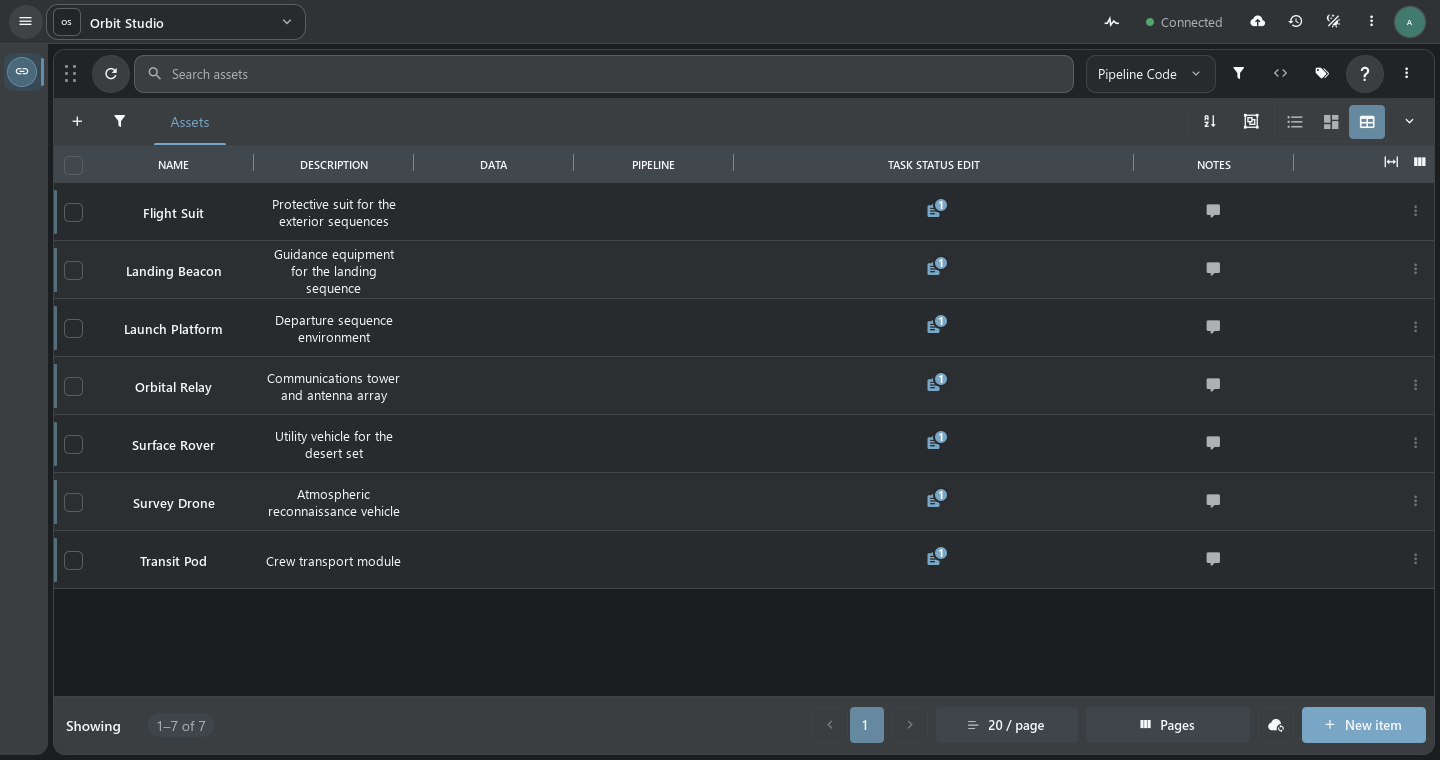
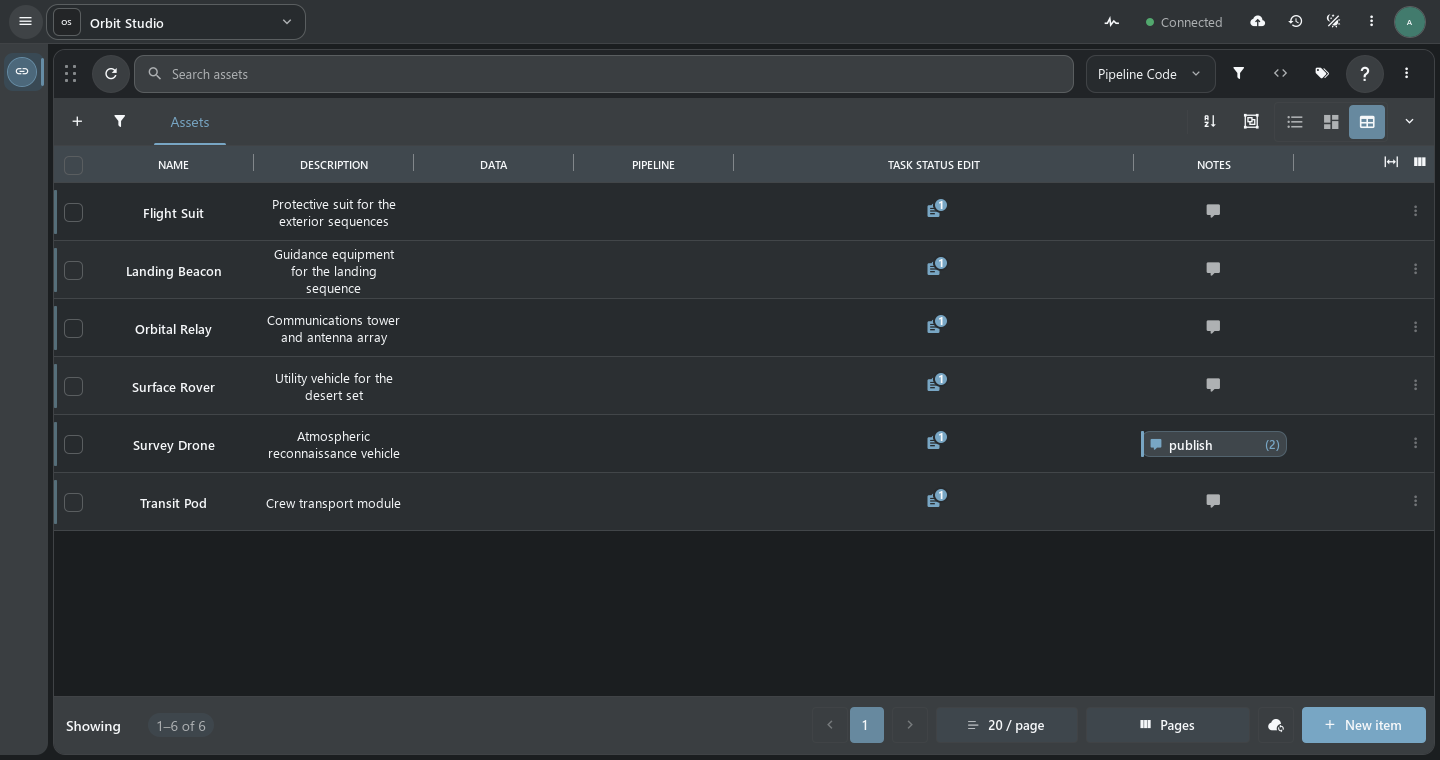
Document the Handler asset and publishing workflow

diff --git a/README.ru.md b/README.ru.md
@@ -1,44 +1,77 @@
 # TACTIC-Handler
 
-[English](README.md) · **Русский** · [Руководство](docs/handbook.ru.md) · [История изменений](CHANGELOG.md)
+**Настольное рабочее пространство TACTIC для производства ассетов.** Найдите ассет или шот, проверьте задачи и версии, подготовьте локальные файлы и опубликуйте снапшот. Handler работает как самостоятельное приложение на Python и Qt Quick и подключает сессии Maya через локальный мост.
 
-**Настольный клиент TACTIC для работы с ассетами, задачами и публикациями.**
-Открывайте ассеты и шоты в Item View, смотрите их задачи и снапшоты
-и готовьте публикации файлов из рабочего пространства на Python и Qt Quick.
+[English](README.md) · [Запуск на Windows](#запуск-на-windows) · [Интеграция с Maya](#интеграция-с-maya) · [Python API](#python-api) · [Руководство](docs/handbook.ru.md)
 
-Handler подключается к настроенному серверу [Southpaw TACTIC](https://github.com/Southpaw-TACTIC/TACTIC)
-или TACTIC Stream.
-Сервер хранит проектные данные, права и правила публикации. Handler отвечает
-за настольный интерфейс, локальные файлы и интеграцию с Maya.
+![Item View в нативном TACTIC-Handler с карточками ассетов проекта Orbit Studio](docs/assets/github-item-view.png)
 
-> **Прототип в разработке.** Perforce-like workspace — отдельный незавершённый
-> прототип внутри Handler.
+*Orbit Studio — демонстрационный проект. На снимке самостоятельное Qt-приложение, подключённое к локальному TACTIC Stream.*
 
-![Карточки ассетов проекта Orbit Studio в Item View настольного клиента TACTIC-Handler](docs/assets/github-item-view.png)
+> **Прототип в разработке.** Для знакомства используйте тестовый проект и репозиторий. Perforce-like workspace — отдельный прототип.
 
-## Item View
+## Работа с ассетом
 
-Просматривайте отдельные объекты в карточках, компактных строках или раскрываемом
-дереве. Открывайте связи, задачи, заметки и снапшоты из результатов поиска.
-При подключении к Stream с API редактирования раскладок нативный редактор
-позволяет собрать карточку или строку из полей и действий.
-[Руководство по раскладкам объектов](thlib/ui/help_articles/item_layouts.ru.md) · [Скриншот таблицы](docs/assets/github-workspace.png)
+Откройте проект и выберите Search Type в сайдбаре. Каждая вкладка поиска сохраняет свой вид, фильтры и выделение. **Item View** показывает ассеты и связанное с ними производство. В дереве удобно идти от объекта к процессу и версиям. Таблица подходит для работы с полями.
 
-## Возможности
+### Поиск, задачи и заметки в одном пространстве
 
-- **Работа с проектом.** Сохраняйте раскладки, открывайте несколько вкладок
-  поиска, ведите задачи, заметки и связи между объектами.
-- **Просмотр и публикация.** Открывайте снапшоты, сравнивайте версии изображений
-  и готовьте check-in через Drop Plate и Commit Queue.
-- **Локальные файлы.** Настраивайте пути и синхронизацию репозиториев.
-  Списки изменений и полки входят в Perforce-like прототип.
-- **Интеграция с Maya.** Выполняйте поддерживаемые операции со сценой в выбранной
-  сессии Maya через локальный Handler Server.
+Из карточки или строки можно открыть задачи, заметки, связи и снапшоты. Док-панели работают рядом с поиском и следуют за выбранным объектом. Когда команде нужно одинаковое расположение панелей, его можно сохранить как раскладку.
+
+![Карточки Orbit Studio и панель заметок выбранного ассета Survey Drone](docs/assets/github-notes.png)
+
+*Панель заметок следует за выделением. [Табличный вид](docs/assets/github-workspace.png)*
+
+### Настройка Item View
+
+При подключении к Stream с API редактирования раскладок откройте нативный редактор **Item Layouts**. Соберите карточку или строку из полей, превью и действий, например «Заметки» или «Детали объекта». Проверьте черновик на данных проекта и сохраните именованное представление. Настройки сайдбара определяют, с каким видом открывается поиск. [Раскладки объектов](thlib/ui/help_articles/item_layouts.ru.md) · [Редактор сайдбара](thlib/ui/help_articles/sidebar_editor.ru.md)
+
+## Публикация и проверка версий
+
+1. Выберите объект и процесс или контекст публикации.
+2. Добавьте файлы или папки в **Drop Plate**. Проверьте группы и параметры check-in в **Commit Queue**.
+3. Отправьте публикацию. Сервер применит права, правила именования и настройки репозитория и запишет снапшот.
+4. Откройте **Snapshot Browser**, чтобы проверить файлы и превью. Две версии изображений можно сравнить рядом или с разделителем.
+
+![Snapshot Browser в TACTIC-Handler для ассета Survey Drone](docs/assets/github-snapshot.png)
+
+*Публикация хранится на сервере как снапшот. Handler управляет локальными путями репозитория и синхронизацией.*
+
+[Check-in](thlib/ui/help_articles/checkin.ru.md) · [Commit Queue](thlib/ui/help_articles/commit_queue.ru.md) · [Snapshot Browser](thlib/ui/help_articles/dock.snapshot.ru.md) · [Репозитории](thlib/ui/help_articles/repositories.ru.md)
+
+## Интеграция с Maya
+
+Коннектор Maya регистрирует сессию в **Handler Server**. В Handler выбирается сессия, которой адресовано действие. Открытие, импорт и добавление референса выполняются внутри Maya. Авторизация TACTIC и передача файлов остаются в настольном Handler.
+
+```mermaid
+flowchart LR
+    Maya["Сессия Maya"] <-->|Локальный мост| Handler["TACTIC-Handler"]
+    Handler <-->|TACTIC API| Server["TACTIC или TACTIC Stream"]
+    Handler <-->|Локальные пути| Storage["Хранилище файлов"]
+    Server <-->|Снапшоты и файлы| Storage
+```
+
+Maya — интеграция, поставляемая в этой версии исходного кода. Протокол тонкого клиента позволяет зарегистрировать нативные действия отдельного коннектора. [Установка Maya-коннектора](installer/README.md) · [DCC API](docs/dcc_api.md) · [Протокол](docs/thin_client_protocol.md)
+
+## Python API
+
+Самостоятельный скрипт может использовать настроенное подключение Handler. В примере ниже читаются записи демопроекта. Подставьте код своего проекта и Search Type.
+
+```python
+from tactic_handler_api import local
+
+with local() as handler:
+    assets = handler.project("orbit").stype("orbit/asset")
+    result = assets.query(limit=12, order_by=["name asc"])
+    for asset in result.items:
+        print(asset.get_code(), asset.get_value("name"))
+```
+
+Точки входа этого API есть также в редакторе скриптов и подключённых DCC. Через API можно запрашивать и редактировать объекты, работать с файлами и вызывать поддерживаемые действия интерфейса. [Примеры и контексты выполнения](docs/handler_api.md) · [Редактор скриптов](thlib/ui/help_articles/script_editor.ru.md) · [Script Shelf](thlib/ui/help_articles/script_shelf.ru.md)
 
 ## Запуск на Windows
 
-Понадобятся Python 3.14, учётная запись TACTIC и доступ к серверу. Выполните
-команды из корня актуальной рабочей копии с файлом `launch.py`.
+Понадобятся Python 3.14, учётная запись TACTIC и актуальная рабочая копия с файлом `launch.py`.
 
 ```powershell
 py -3.14 -m venv .venv
@@ -46,21 +79,13 @@ py -3.14 -m venv .venv
 .\.venv\Scripts\python.exe launch.py
 ```
 
-Откройте **Конфигурация → Сервер**, добавьте подключение, проверьте адрес и
-получите тикет. Выберите проект и настройте локальный путь репозитория перед
-работой с файлами. [Первое подключение](docs/handbook.ru.md#первое-подключение)
+Сначала запустите сервер TACTIC. В Handler откройте **Конфигурация → Сервер**, проверьте подключение и получите тикет. Выберите проект и настройте локальный путь репозитория перед check-in и синхронизацией. [Первое подключение](docs/handbook.ru.md#первое-подключение) · [Начало работы](thlib/ui/help_articles/getting_started.ru.md)
 
-## Документация
-
-| Задача | Где начать |
+| Что дальше | Документация |
 | --- | --- |
-| Освоить настольный клиент | [Начало работы](thlib/ui/help_articles/getting_started.ru.md) · [Руководство](docs/handbook.ru.md) |
-| Подключить Maya или разработать коннектор | [Установщик Maya](installer/README.md) · [DCC API](docs/dcc_api.md) |
-| Писать клиентские скрипты | [Handler API](docs/handler_api.md) |
-| Разрабатывать и проверять релизы | [Индекс документации](docs/index.md) · [Готовность релиза](docs/release_readiness.md) |
+| Настольные сценарии, задачи и администрирование | [Руководство](docs/handbook.ru.md) · [Справка](thlib/ui/help_articles/README.md) |
+| Устройство клиента и общий Frame | [Архитектура](docs/application_architecture.md) · [Контракты Frame](docs/frame/index.md) |
+| Совместимость с существующим TACTIC | [Карта совместимости](docs/tactic_compatibility/README.md) |
+| Проверка релиза | [Готовность и ручная приёмка](docs/release_readiness.md) |
 
-Для рабочего развёртывания требуется приёмка на
-целевом сервере, с реальными репозиториями, в нужной конфигурации Windows и DCC.
-Сценарии перечислены в [чек-листе приёмки](docs/release_acceptance_checklist.md).
-
-[Eclipse Public License 1.0](LICENSE). У встроенных компонентов свои уведомления о лицензиях.
+Handler подключается к [Southpaw TACTIC](https://github.com/Southpaw-TACTIC/TACTIC) или TACTIC Stream. [Eclipse Public License 1.0](LICENSE)

diff --git a/README.md b/README.md
@@ -1,44 +1,77 @@
 # TACTIC-Handler
 
-**English** · [Русский](README.ru.md) · [Handbook](docs/handbook.en.md) · [Changelog](CHANGELOG.md)
+**Native desktop workspace for TACTIC asset production.** Find an asset or shot, follow its tasks and versions, and turn local files into a TACTIC snapshot. Handler runs as a standalone Python and Qt Quick application. Its local bridge connects a Maya session to the same workspace.
 
-**Native desktop client for TACTIC production workflows.** Browse assets and
-shots in Item View, inspect their tasks and snapshots, and prepare file
-publications from a Python and Qt Quick workspace.
+[Русский](README.ru.md) · [Start on Windows](#start-on-windows) · [Maya integration](#maya-integration) · [Python API](#python-api) · [Handbook](docs/handbook.en.md)
 
-Handler connects to a configured [Southpaw TACTIC](https://github.com/Southpaw-TACTIC/TACTIC)
-or TACTIC Stream server.
-The server owns project data, permissions, pipelines, and repository rules.
-Handler owns the desktop workspace, local file operations, and Maya integration.
+![TACTIC-Handler Item View in the Orbit Studio demo, with production assets and task indicators](docs/assets/github-item-view.png)
 
-> **Development prototype.** The Perforce-like file workspace is an unfinished
-> prototype within Handler.
+*Orbit Studio is a demonstration project. This is the standalone Qt application connected to a local TACTIC Stream server.*
 
-![TACTIC-Handler Item View displaying cards for the Orbit Studio demo assets](docs/assets/github-item-view.png)
+> **Development prototype.** Evaluate Handler with a test project and repository. The Perforce-like file workspace is a separate prototype.
 
-## Item View
+## Work from the asset
 
-Browse individual objects as cards, compact rows, or an expandable tree.
-Follow relationships, tasks, notes, and snapshots from the same search
-workspace. With a Stream server that provides layout authoring, use the native
-Item Layouts editor to build a card or row from bound fields and actions.
-[Item Layouts guide](thlib/ui/help_articles/item_layouts.en.md) · [Table view screenshot](docs/assets/github-workspace.png)
+Open a project and choose a Search Type from the sidebar. Each search tab keeps its own view, filters, and selection. Use **Item View** for visual assets and their related work, the continuous tree to follow processes and versions, or the table for field-oriented work.
 
-## What you can do
+### Browse records and keep the context
 
-- **Organize work.** Save workspace layouts, keep multiple search tabs open,
-  and work with tasks, notes, relationships, and project records.
-- **Review and publish.** Browse snapshots, compare image versions, and prepare
-  check-ins through Drop Plate and Commit Queue.
-- **Work with local files.** Map and sync repositories. Changelists and shelves
-  are part of the Perforce-like prototype.
-- **Connect Maya.** Route supported scene operations to the selected Maya
-  session through the local Handler Server bridge.
+Cards and rows link to tasks, notes, related objects, and snapshots. Docks can sit alongside the current selection, so opening a discussion or checking a version keeps the search results in view. Save a workspace layout when a department needs the same panel arrangement again.
+
+![TACTIC-Handler showing Orbit Studio asset cards alongside the notes dock for Survey Drone](docs/assets/github-notes.png)
+
+*The notes dock follows the selected asset. [Table view](docs/assets/github-workspace.png)*
+
+### Configure Item View
+
+When connected to Stream with layout authoring enabled, use the native **Item Layouts** editor to assemble a card or row. Bind previews and text to object fields, add actions such as Notes or Object details, and preview the draft with project data before saving it. Sidebar configuration can select how users enter a search workspace. [Item Layouts](thlib/ui/help_articles/item_layouts.en.md) · [Sidebar Editor](thlib/ui/help_articles/sidebar_editor.en.md)
+
+## Publish files and review versions
+
+1. Select an object and the process or context that should own the publication.
+2. Add local files or folders to **Drop Plate**, then review the groups and check-in settings in **Commit Queue**.
+3. Submit the check-in. The server applies its permissions, naming, and repository rules and records the resulting snapshot.
+4. Open **Snapshot Browser** to inspect files and previews. Choose two image snapshots to compare their versions side by side or with a divider.
+
+![TACTIC-Handler Snapshot Browser open for the selected Survey Drone asset](docs/assets/github-snapshot.png)
+
+*Published files belong to a snapshot on the server. The desktop client also handles local repository mappings and synchronization.*
+
+[Check-in guide](thlib/ui/help_articles/checkin.en.md) · [Commit Queue](thlib/ui/help_articles/commit_queue.en.md) · [Snapshot Browser](thlib/ui/help_articles/dock.snapshot.en.md) · [Repository setup](thlib/ui/help_articles/repositories.en.md)
+
+## Maya integration
+
+The Maya connector registers a session with **Handler Server**, the local desktop bridge. Choose the connected session in Handler before sending a native operation. The connector performs Maya work such as open, import, or reference; Handler manages the TACTIC session and file transfers.
+
+```mermaid
+flowchart LR
+    Maya["Maya session"] <-->|Local bridge| Handler["TACTIC-Handler"]
+    Handler <-->|TACTIC API| Server["TACTIC or TACTIC Stream"]
+    Handler <-->|Repository mapping| Storage["File storage"]
+    Server <-->|Snapshots and files| Storage
+```
+
+Maya is the integration shipped in this checkout. A separate connector can register its own native actions through the thin-client protocol. [Install the Maya connector](installer/README.md) · [DCC API](docs/dcc_api.md) · [Thin-client protocol](docs/thin_client_protocol.md)
+
+## Python API
+
+Use Handler's configured session from a standalone script. This example reads records from the demo Search Type. Substitute your project code and Search Type for a real installation.
+
+```python
+from tactic_handler_api import local
+
+with local() as handler:
+    assets = handler.project("orbit").stype("orbit/asset")
+    result = assets.query(limit=12, order_by=["name asc"])
+    for asset in result.items:
+        print(asset.get_code(), asset.get_value("name"))
+```
+
+The same API family also has entry points for the desktop Script Editor and connected DCC clients. Studio tools can query and edit objects, initiate file operations, and call supported UI actions. [API examples and execution contexts](docs/handler_api.md) · [Script Editor](thlib/ui/help_articles/script_editor.en.md) · [Script Shelf](thlib/ui/help_articles/script_shelf.en.md)
 
 ## Start on Windows
 
-Use Python 3.14, a TACTIC account, and access to the target server. Run these
-commands from a modern source checkout that contains `launch.py`.
+Use a modern source checkout containing `launch.py`, Python 3.14, and a TACTIC account.
 
 ```powershell
 py -3.14 -m venv .venv
@@ -46,21 +79,13 @@ py -3.14 -m venv .venv
 .\.venv\Scripts\python.exe launch.py
 ```
 
-Open **Configuration → Server**, add a server preset, test the connection, and
-generate a ticket. Select a project and configure the local repository mapping
-before working with files. [First connection guide](docs/handbook.en.md#first-connection)
+Start the TACTIC server first. In Handler, open **Configuration → Server**, test the preset, and generate a ticket. Choose a project. Set up its local repository mapping before trying check-in or synchronization. [First connection](docs/handbook.en.md#first-connection) · [Getting started](thlib/ui/help_articles/getting_started.en.md)
 
-## Documentation
-
-| I want to | Start here |
+| Where to go next | Reference |
 | --- | --- |
-| Learn the desktop workflows | [Getting started](thlib/ui/help_articles/getting_started.en.md) · [Handbook](docs/handbook.en.md) |
-| Connect Maya or build a connector | [Maya installer](installer/README.md) · [DCC API](docs/dcc_api.md) |
-| Write client scripts and tools | [Handler API](docs/handler_api.md) |
-| Develop or verify a release | [Documentation index](docs/index.md) · [Release readiness](docs/release_readiness.md) |
+| Desktop workflows, tasks, and administration | [Handbook](docs/handbook.en.md) · [Product Help](thlib/ui/help_articles/README.md) |
+| Client structure and shared Frame | [Architecture](docs/application_architecture.md) · [Frame contracts](docs/frame/index.md) |
+| Compatibility with an existing TACTIC installation | [Compatibility map](docs/tactic_compatibility/README.md) |
+| Release verification | [Readiness and manual acceptance](docs/release_readiness.md) |
 
-Production use requires acceptance against the target server, repositories,
-Windows configuration, and DCC host.
-The [release checklist](docs/release_acceptance_checklist.md) lists those checks.
-
-[Eclipse Public License 1.0](LICENSE). Bundled components retain their notices.
+Handler connects to [Southpaw TACTIC](https://github.com/Southpaw-TACTIC/TACTIC) or TACTIC Stream. It is distributed under the [Eclipse Public License 1.0](LICENSE).

diff --git a/CHANGELOG.md b/CHANGELOG.md
@@ -1,5 +1,9 @@
 # Changelog
 
+## 0.6.0.412 - 2026-11-09
+
+- Expand the repository guides with current workspace screenshots, a publication walkthrough, and a standalone Python API example.
+
 ## 0.6.0.411 - 2026-11-09
 
 - Add concise English and Russian repository guides, retain the full handbook, and add a GitHub bug report template.
